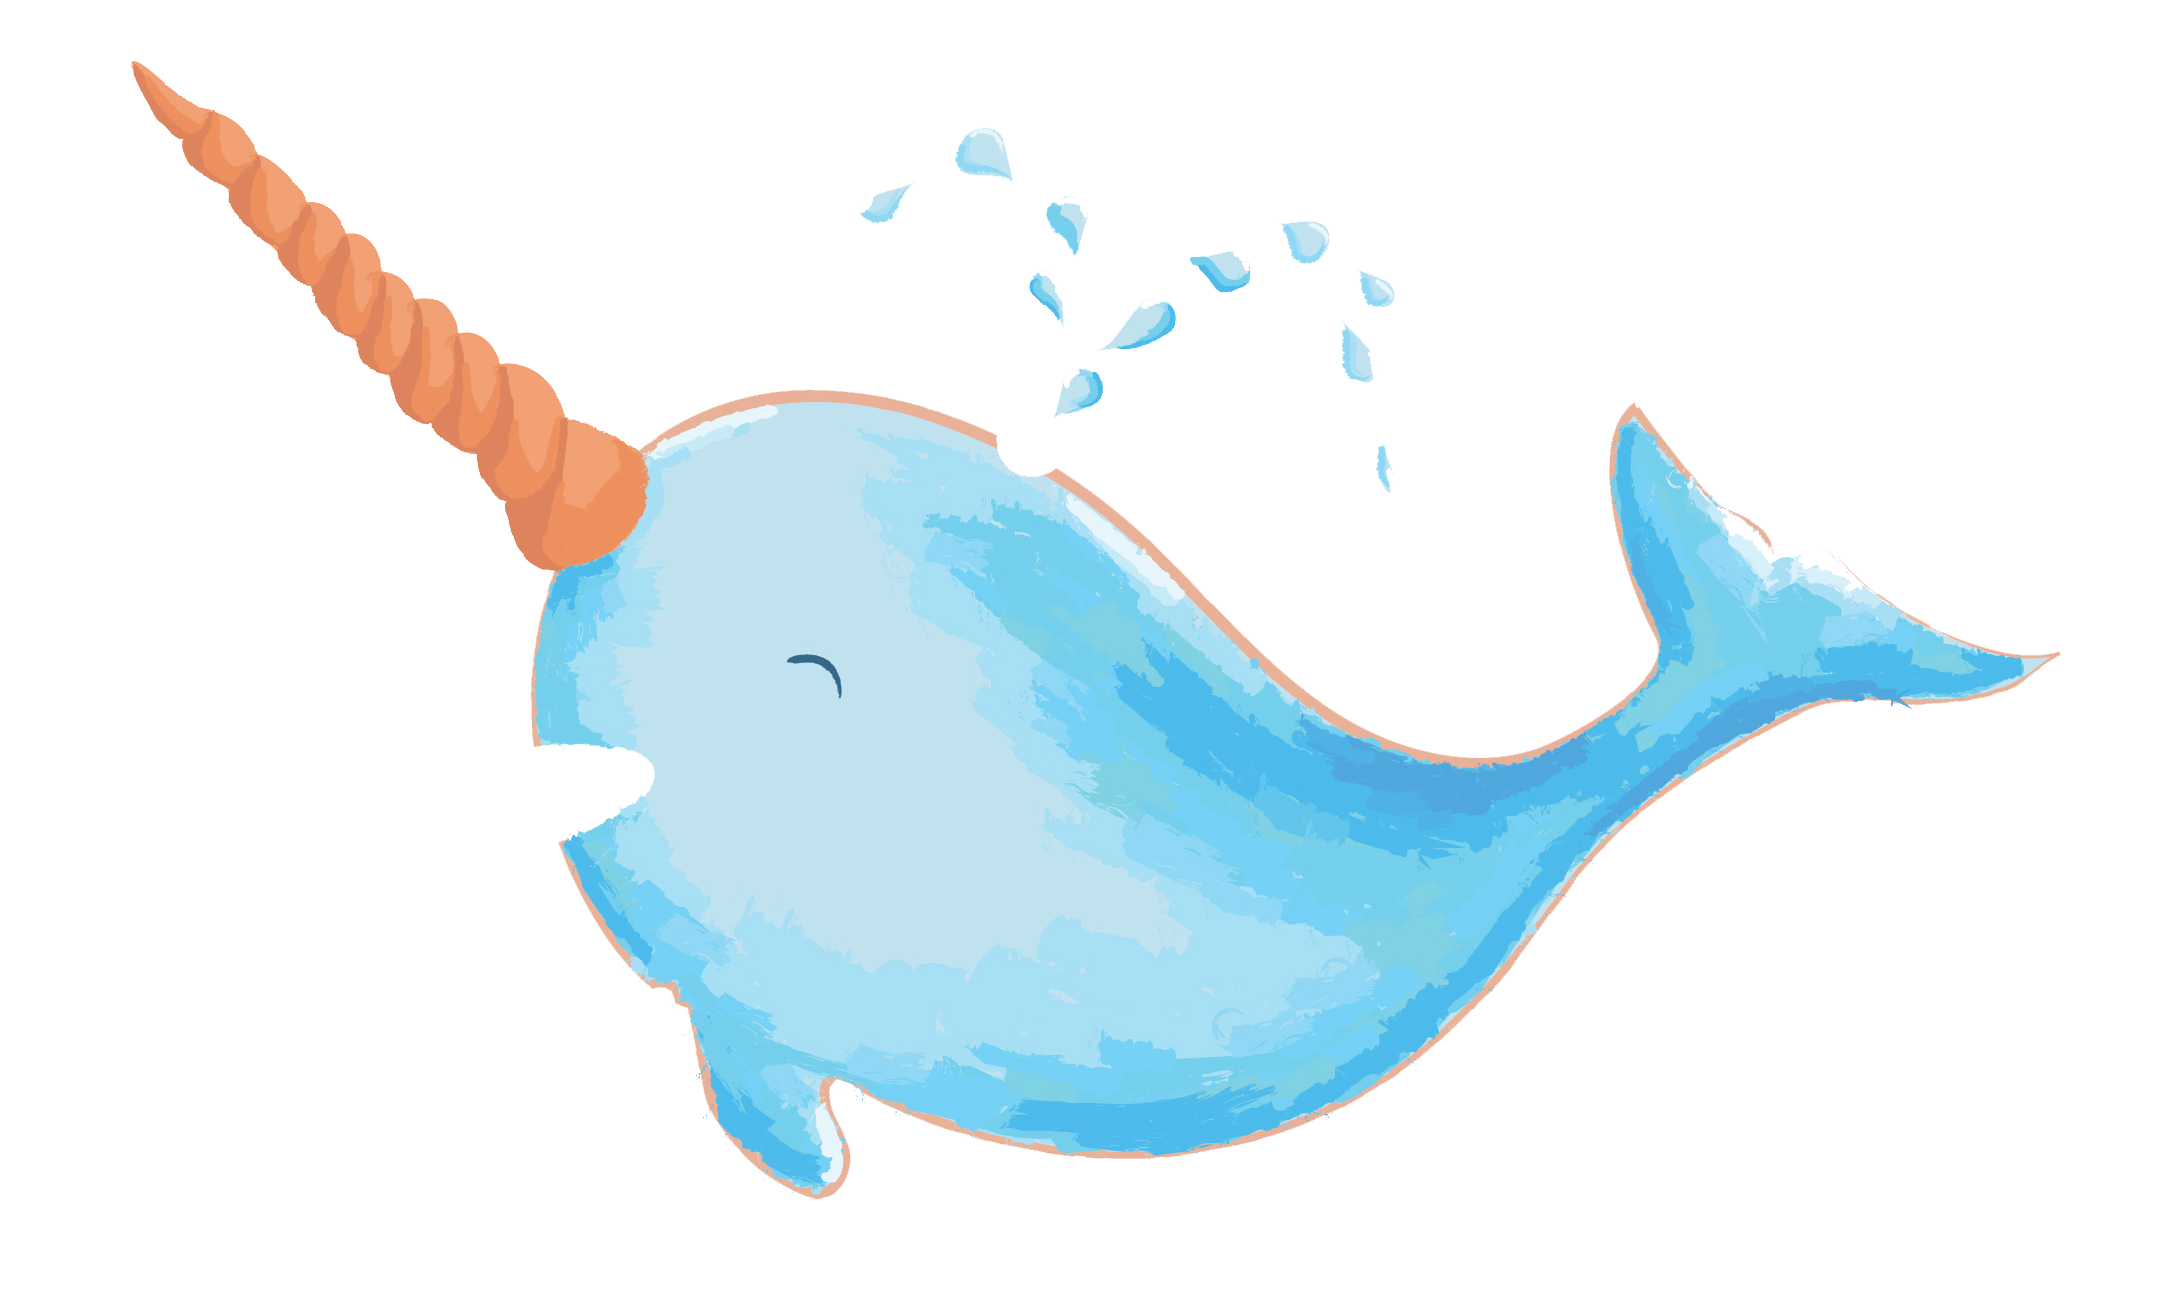
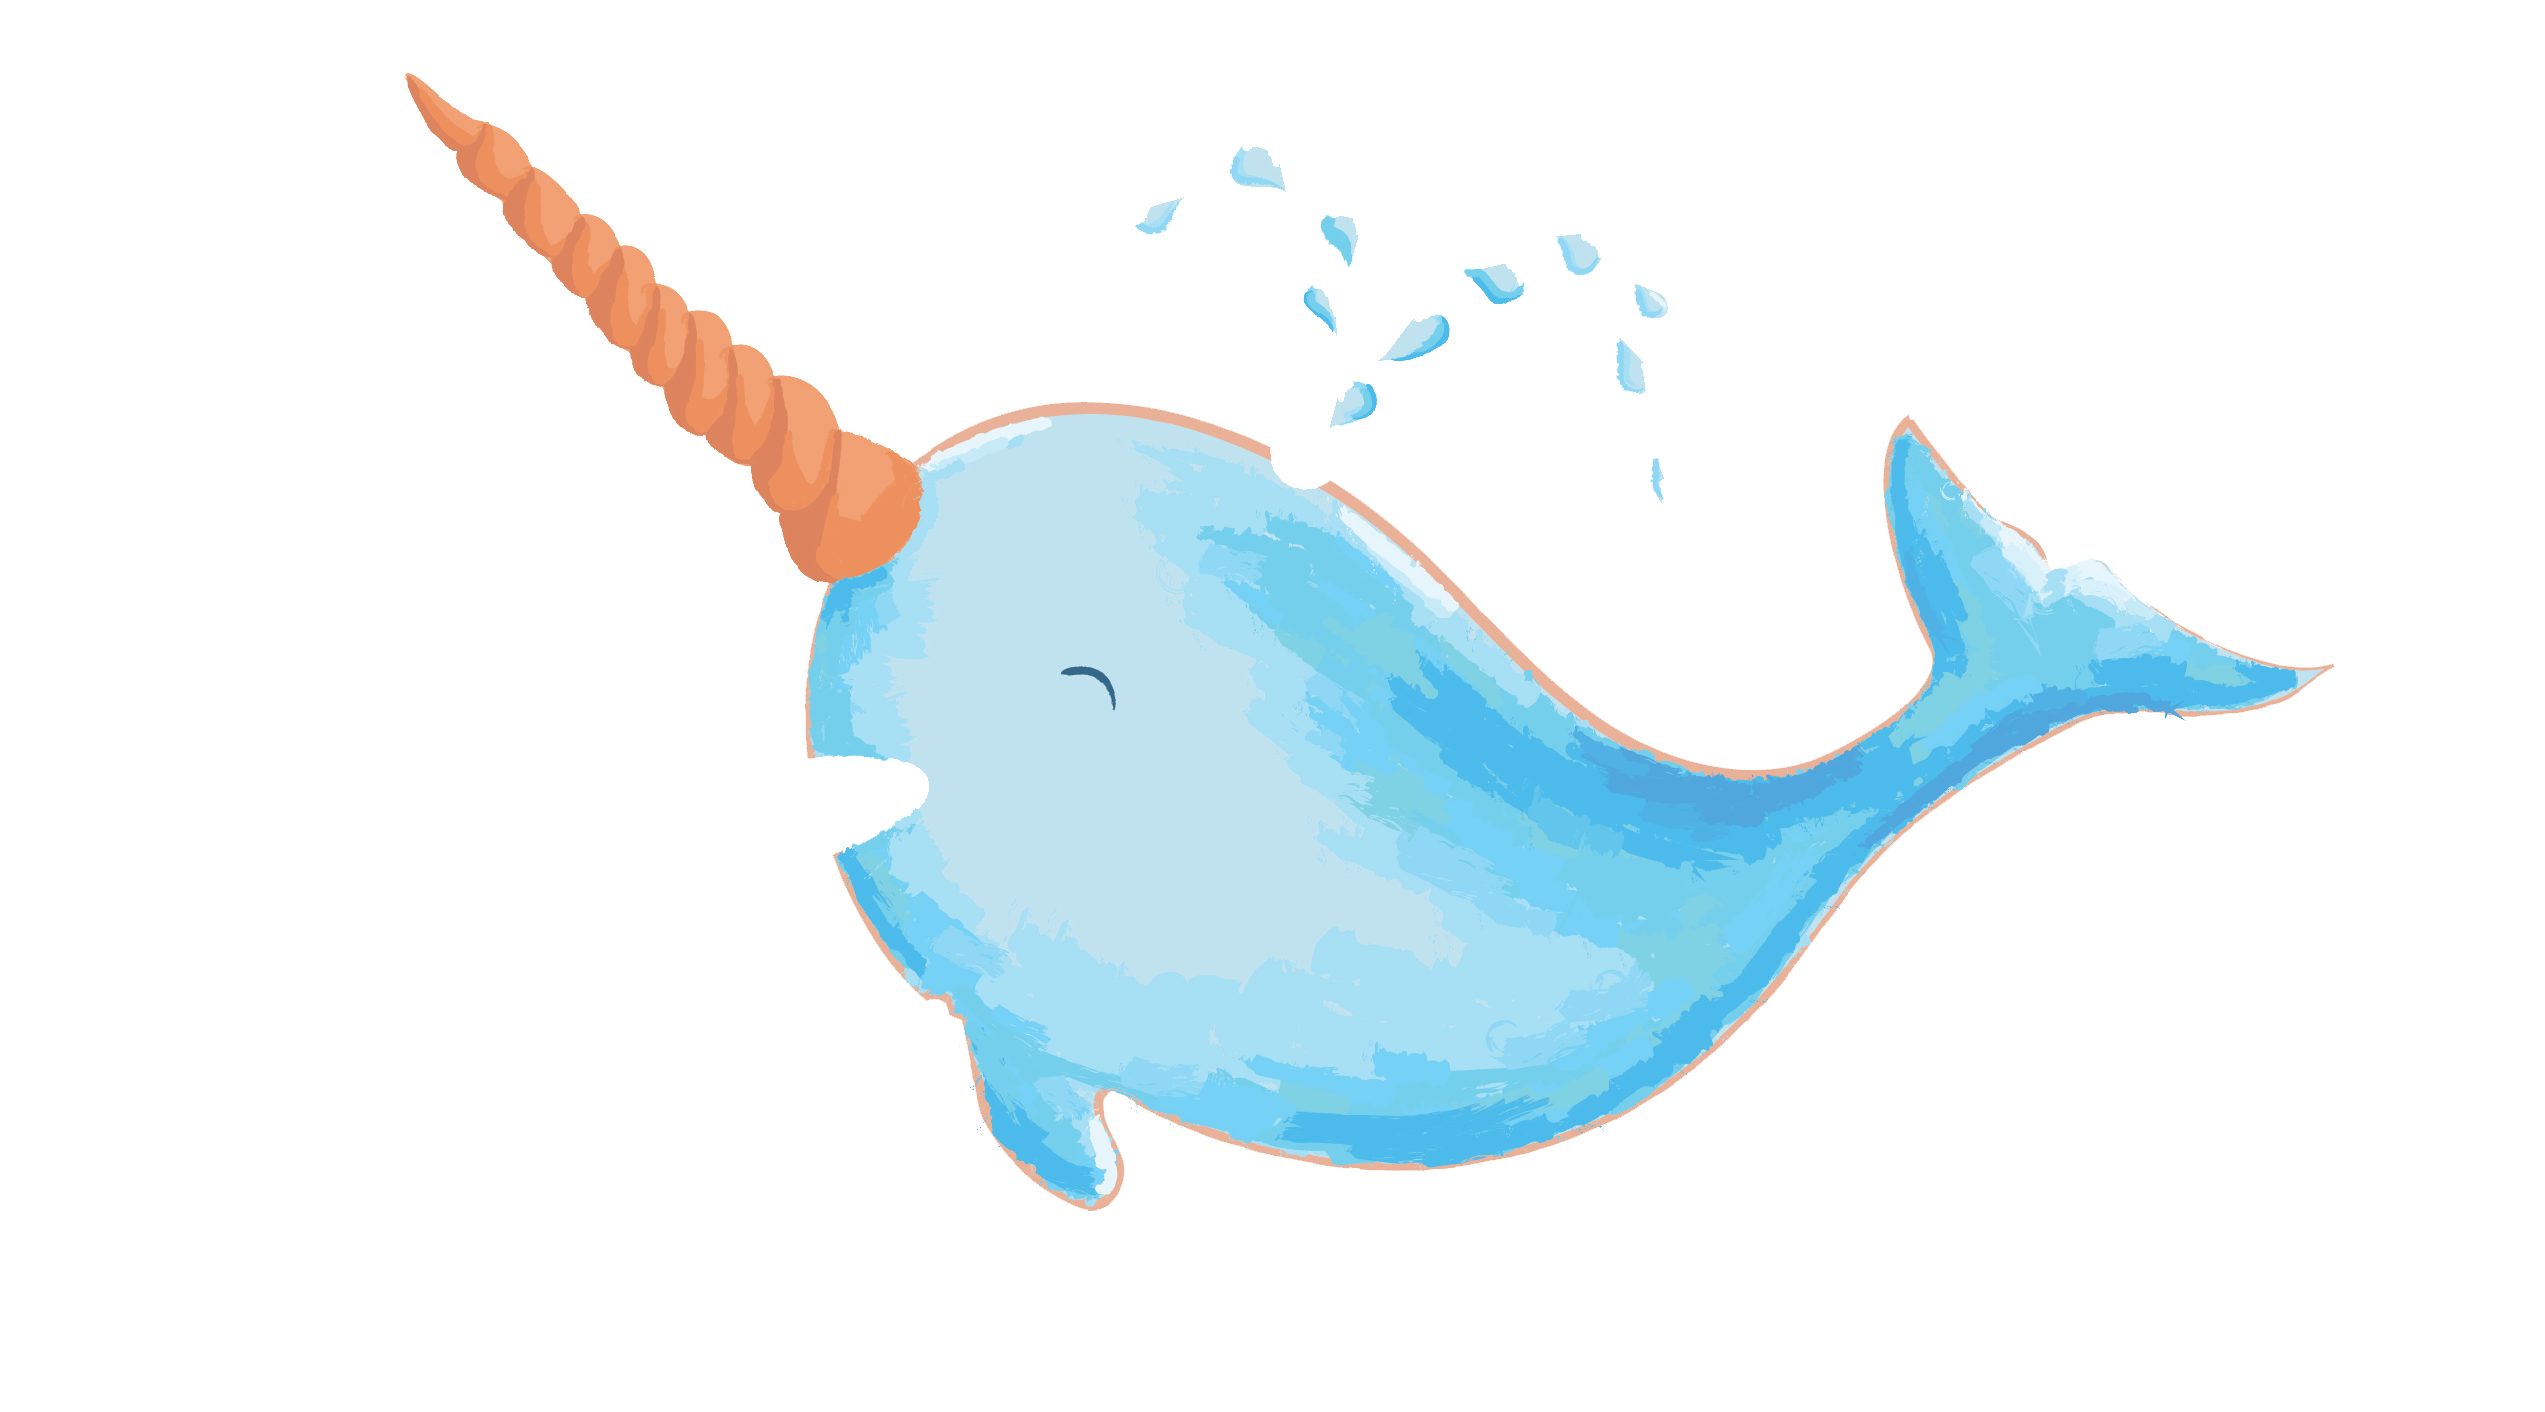
added hover transition

Changed region(s): [[0.0625, 0.0613, 0.9371, 0.9195], [0.6247, 0.3372, 0.6559, 0.3678], [0.3748, 0.1533, 0.4061, 0.1839]]

diff --git a/js/darkmode.js b/js/darkmode.js
@@ -3,7 +3,38 @@ function setModeEventListener() {
     let list = document.body.classList;
     document.getElementById('toggler').addEventListener('change', event => {
         event.target.checked ? list.add('dark-mode') : list.remove('dark-mode');
+
     });
 
-
 }
+
+$("#toggler").change(function(){
+
+    if($(this).prop("checked") === true) {
+
+        // DISCO PARTY TIME
+        $(function() {
+            $("#narwhalContainer")
+                .mouseover(function() {
+                    $(this).css("background-image", "url(/shinelikastar.github.io/assets/narwhals/nightOver.png)");
+                })
+                .mouseout(function() {
+                    $(this).css("background-image", "url(/shinelikastar.github.io/assets/narwhals/night.png)");
+                });
+        });
+
+    } else{
+
+        // DAYTIME
+        $(function() {
+            $("#narwhalContainer")
+                .mouseover(function() {
+                    $(this).css("background-image", "url(/shinelikastar.github.io/assets/narwhals/dayOver.png)");
+                })
+                .mouseout(function() {
+                    $(this).css("background-image", "url(/shinelikastar.github.io/assets/narwhals/day.png)");
+                });
+        });
+
+    }
+});

diff --git a/css/home.css b/css/home.css
@@ -5,11 +5,36 @@ img {
 
 }
 
-.narwhalContainer {
+#narwhalContainer {
     display: block;
-    padding-top: 40px;
+    padding-top: 50px;
+    padding-bottom: 50px;
     margin: auto;
-    height: 400px;
-    width: 600px;
+    height: 300px;
+    width: 1000px;
+    background-position: center top;
+    background-repeat: no-repeat;
+    background-size: contain;
+    background-image: url('../assets/narwhals/day.png');
+    -webkit-transition:all 0.7s ease-in-out;
+    -moz-transition:all 0.7s ease-in-out;
+    transition:all 0.7s ease-in-out;
 
+
+}
+
+#narwhalContainer:hover {
+    background-image: url('../assets/narwhals/dayOver.png');
+    background-size: contain;
+
+}
+
+.narwhalContainer.dark-mode {
+    background-image: url('../assets/narwhals/night.png');
+    background-size: contain;
+}
+
+.narwhalContainer.dark-mode:hover {
+    background-image: url('../assets/narwhals/nightOver.png');
+    background-size: contain;
 }

diff --git a/writing.html b/writing.html
@@ -2,9 +2,23 @@
 <html lang="en">
 <head>
     <meta charset="UTF-8">
-    <title>Title</title>
+    <title>writing</title>
 </head>
 <body>
+
+    <div class="navigationContainer">
+        <ul class="navigation">
+            <li><a href="index.html">home</a></li>
+            <li><a href="projects.html">projects</a></li>
+            <li><a href="writing.html">writing</a></li>
+            <li><a href="about.html">about</a></li>
+            <li><a href="assets/resume.pdf">résumé</a></li>
+        </ul>
+    </div>
+
+    <div class="content">
+
+    </div>
 
 </body>
 </html>

diff --git a/js/narwhals.js b/js/narwhals.js
@@ -13,7 +13,7 @@ $(document).ready(function(){
 
     $("#toggler").change(function(){
 
-        if($(this).prop("checked") === true){
+        if($(this).prop("checked") === true) {
 
             // DISCO PARTY TIME
             $(function() {
@@ -26,7 +26,7 @@ $(document).ready(function(){
                     });
             });
 
-        }else{
+        } else{
 
             // DAYTIME
             $(function() {

diff --git a/index.html b/index.html
@@ -36,8 +36,8 @@
             <h1 id="name">star su</h1>
         </div>
 
-        <div class="narwhalContainer">
-            <img src="assets/narwhals/day.png">
+        <div id="narwhalContainer">
+            <!--<img src="assets/narwhals/day.png">-->
         </div>
 
         <div class="dark-mode-toggler">
